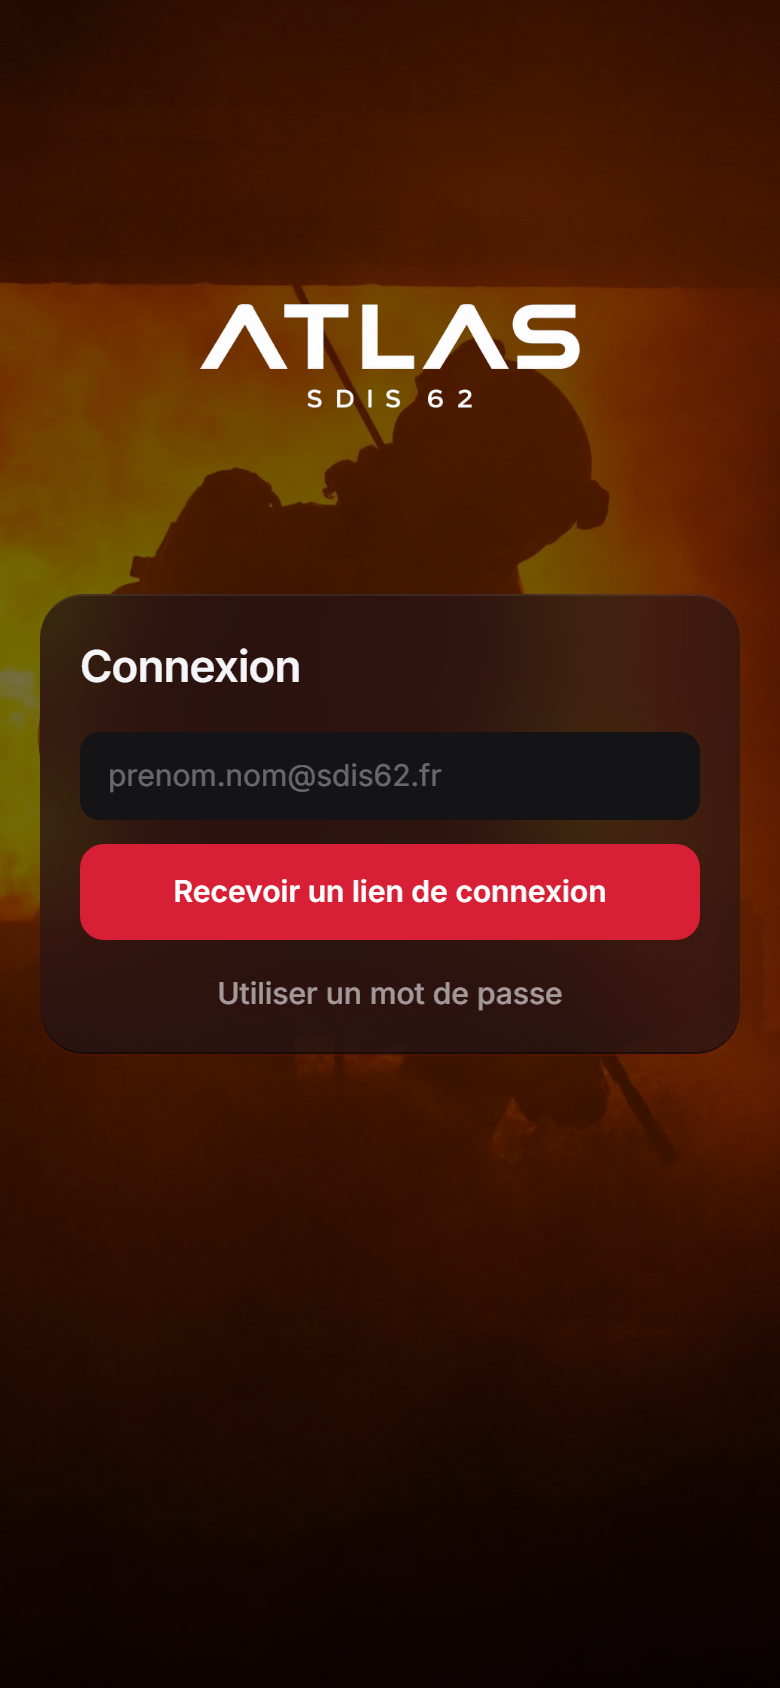
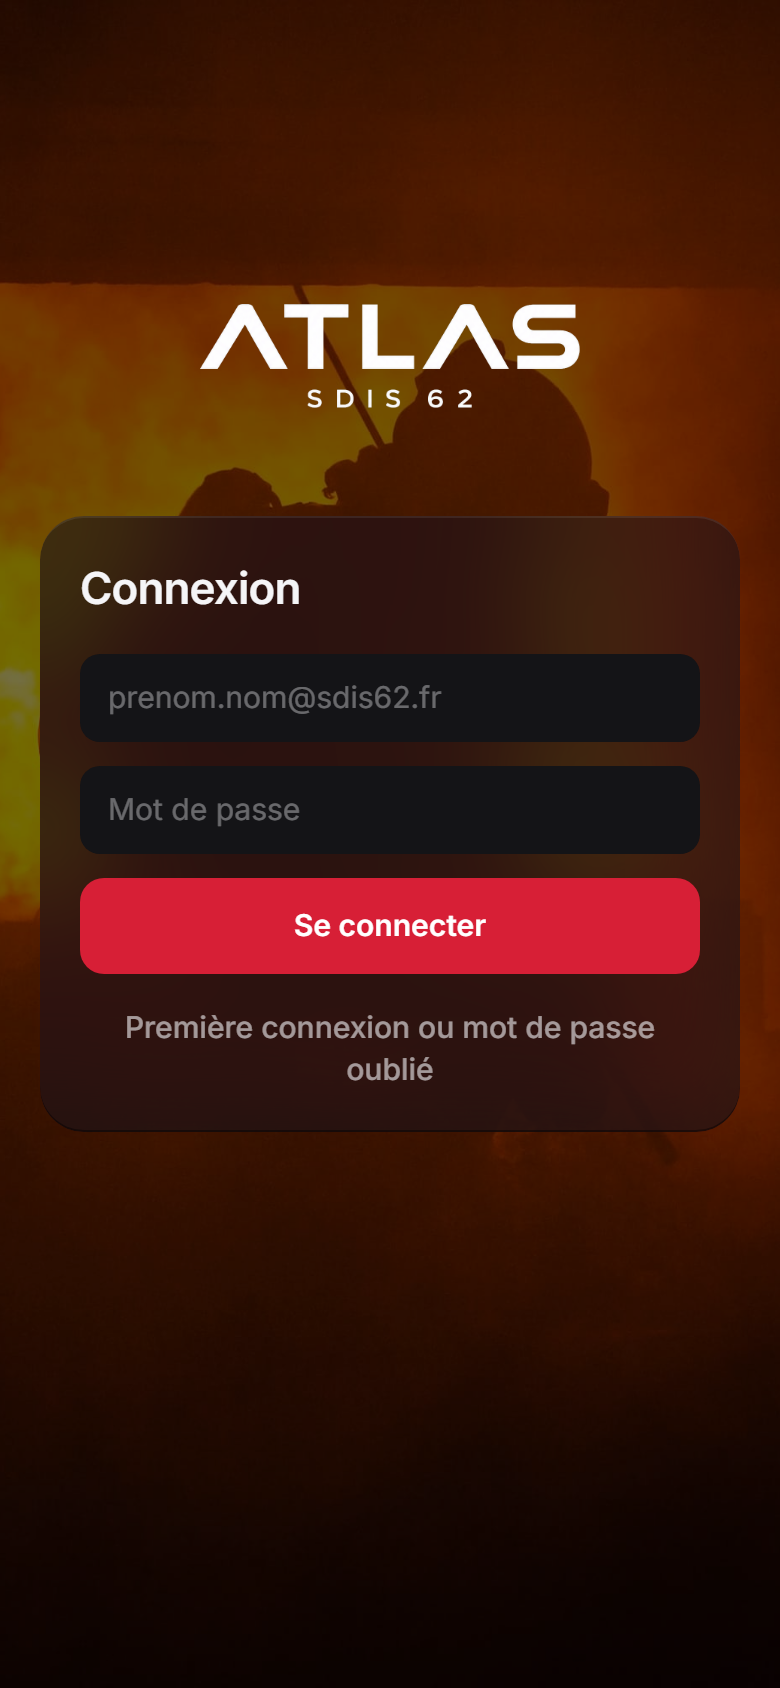
feat: connexion par mot de passe par défaut, première connexion par lien e-mail puis page de bienvenue (profil et mot de passe)

Changed region(s): [[0.0308, 0.3081, 0.9538, 0.6777], [0.6154, 0.6469, 0.7077, 0.6777]]

diff --git a/app/(auth)/login/LoginForm.tsx b/app/(auth)/login/LoginForm.tsx
@@ -6,23 +6,26 @@ import { Button } from "@/components/ui/Button";
 import { cn } from "@/lib/cn";
 
 const initial: LoginState = { status: "idle" };
-type Mode = "magic" | "password";
+type Mode = "password" | "link";
 
-const input =
-  "h-11 w-full rounded-[10px] bg-bg-1 px-3.5 text-[15px] text-text-1 outline-none ring-1 ring-transparent focus:ring-glass-edge";
+const input = "h-11 w-full rounded-[10px] bg-bg-1 px-3.5 text-[15px] text-text-1 outline-none ring-1 ring-transparent focus:ring-glass-edge";
 
-/** Formulaire de connexion : lien par e-mail (défaut) ou mot de passe. Un seul bouton rouge. */
+/**
+ * Connexion par e-mail et mot de passe (défaut). « Première connexion » ou
+ * « mot de passe oublié » : l'agent saisit son adresse, reçoit un lien, puis
+ * définit son mot de passe sur /bienvenue. Un seul bouton rouge.
+ */
 export function LoginForm({ next, domains }: { next: string; domains: string[] }) {
-  const [mode, setMode] = useState<Mode>("magic");
-  const [magicState, magicAction, magicPending] = useActionState(sendMagicLink, initial);
+  const [mode, setMode] = useState<Mode>("password");
   const [pwdState, pwdAction, pwdPending] = useActionState(signInWithPassword, initial);
+  const [linkState, linkAction, linkPending] = useActionState(sendMagicLink, initial);
 
-  if (magicState.status === "sent") {
+  if (linkState.status === "sent") {
     return (
       <div className="space-y-2" role="status" aria-live="polite">
         <p className="text-[22px] font-semibold tracking-[-0.02em] text-text-1">Lien envoyé</p>
         <p className="text-[15px] text-text-2">
-          Ouvrez l&apos;e-mail reçu sur <span className="text-text-1">{magicState.email}</span> et touchez le lien. Il est valable une heure.
+          Ouvrez l&apos;e-mail reçu sur <span className="text-text-1">{linkState.email}</span> et touchez le lien : vous choisirez ensuite votre mot de passe. Le lien est valable une heure.
         </p>
         <p className="text-[13px] text-text-3">Rien reçu ? Vérifiez vos indésirables, puis réessayez dans quelques minutes.</p>
       </div>
@@ -30,35 +33,13 @@ export function LoginForm({ next, domains }: { next: string; domains: string[] }
   }
 
   const placeholder = domains[0] ? `prenom.nom@${domains[0]}` : "Adresse e-mail";
-  const error = mode === "magic" ? (magicState.status === "error" ? magicState.message : null) : pwdState.status === "error" ? pwdState.message : null;
+  const error = mode === "password" ? (pwdState.status === "error" ? pwdState.message : null) : linkState.status === "error" ? linkState.message : null;
 
   return (
     <div className="space-y-4">
-      <p className="text-[22px] font-semibold tracking-[-0.02em] text-text-1">Connexion</p>
+      <p className="text-[22px] font-semibold tracking-[-0.02em] text-text-1">{mode === "password" ? "Connexion" : "Première connexion"}</p>
 
-      {mode === "magic" ? (
-        <form action={magicAction} className="space-y-3" noValidate>
-          <input type="hidden" name="next" value={next} />
-          <input
-            name="email"
-            type="email"
-            autoComplete="email"
-            inputMode="email"
-            placeholder={placeholder}
-            aria-label="Adresse e-mail"
-            required
-            className={cn(input, error && "ring-red")}
-          />
-          {error && (
-            <p className="text-[13px] text-red-text" role="alert">
-              {error}
-            </p>
-          )}
-          <Button type="submit" className="w-full" loading={magicPending}>
-            Recevoir un lien de connexion
-          </Button>
-        </form>
-      ) : (
+      {mode === "password" ? (
         <form action={pwdAction} className="space-y-3" noValidate>
           <input type="hidden" name="next" value={next} />
           <input name="email" type="email" autoComplete="username" inputMode="email" placeholder={placeholder} aria-label="Adresse e-mail" required className={input} />
@@ -72,14 +53,29 @@ export function LoginForm({ next, domains }: { next: string; domains: string[] }
             Se connecter
           </Button>
         </form>
+      ) : (
+        <form action={linkAction} className="space-y-3" noValidate>
+          {/* Après le lien, l'agent définit son mot de passe */}
+          <input type="hidden" name="next" value="/bienvenue" />
+          <p className="text-[15px] text-text-2">Saisissez votre adresse : vous recevrez un lien pour créer votre mot de passe.</p>
+          <input name="email" type="email" autoComplete="email" inputMode="email" placeholder={placeholder} aria-label="Adresse e-mail" required className={cn(input, error && "ring-red")} />
+          {error && (
+            <p className="text-[13px] text-red-text" role="alert">
+              {error}
+            </p>
+          )}
+          <Button type="submit" className="w-full" loading={linkPending}>
+            Recevoir mon lien
+          </Button>
+        </form>
       )}
 
       <button
         type="button"
-        onClick={() => setMode((m) => (m === "magic" ? "password" : "magic"))}
+        onClick={() => setMode((m) => (m === "password" ? "link" : "password"))}
         className="block w-full text-center text-[15px] font-medium text-text-2 hover:text-text-1"
       >
-        {mode === "magic" ? "Utiliser un mot de passe" : "Recevoir un lien par e-mail"}
+        {mode === "password" ? "Première connexion ou mot de passe oublié" : "J'ai déjà un mot de passe"}
       </button>
     </div>
   );

diff --git a/app/bienvenue/actions.ts b/app/bienvenue/actions.ts
@@ -1,0 +1,44 @@
+"use server";
+
+import { redirect } from "next/navigation";
+import { z } from "zod";
+import { createClient } from "@/lib/supabase/server";
+import { setPasswordSchema } from "@/lib/validation/auth";
+
+export type OnboardingState = { status: "idle" } | { status: "error"; message: string; fields?: Record<string, string> };
+
+const name = z.string().trim().min(1, "Champ obligatoire.").max(60, "60 caractères maximum.");
+
+export async function completeOnboarding(_prev: OnboardingState, formData: FormData): Promise<OnboardingState> {
+  const parsedName = z.object({ first_name: name, last_name: name }).safeParse({
+    first_name: formData.get("first_name"),
+    last_name: formData.get("last_name"),
+  });
+  const parsedPwd = setPasswordSchema.safeParse({ password: formData.get("password"), confirm: formData.get("confirm") });
+
+  const fields: Record<string, string> = {};
+  for (const r of [parsedName, parsedPwd]) {
+    if (!r.success) for (const i of r.error.issues) {
+      const k = String(i.path[0] ?? "");
+      if (k && !fields[k]) fields[k] = i.message;
+    }
+  }
+  if (!parsedName.success || !parsedPwd.success) return { status: "error", message: "Vérifiez les champs.", fields };
+
+  const supabase = await createClient();
+  const {
+    data: { user },
+  } = await supabase.auth.getUser();
+  if (!user) redirect("/login");
+
+  const { error: profileError } = await supabase.from("profiles").update(parsedName.data).eq("id", user.id);
+  if (profileError) return { status: "error", message: "Enregistrement du profil impossible." };
+
+  const { error } = await supabase.auth.updateUser({ password: parsedPwd.data.password });
+  if (error) {
+    const weak = /weak|pwned|leaked|compromised/i.test(error.message);
+    return { status: "error", message: weak ? "Ce mot de passe est trop faible ou connu dans des fuites de données. Choisissez-en un autre." : "Enregistrement du mot de passe impossible. Reconnectez-vous puis réessayez." };
+  }
+
+  redirect("/");
+}

diff --git a/app/bienvenue/OnboardingForm.tsx b/app/bienvenue/OnboardingForm.tsx
@@ -1,0 +1,42 @@
+"use client";
+
+import { useActionState } from "react";
+import { completeOnboarding, type OnboardingState } from "./actions";
+import { Button } from "@/components/ui/Button";
+import { Field } from "@/components/ui/Field";
+import { LIMITS } from "@/lib/config";
+
+const initial: OnboardingState = { status: "idle" };
+
+export function OnboardingForm({ firstName, lastName }: { firstName: string; lastName: string }) {
+  const [state, action, pending] = useActionState(completeOnboarding, initial);
+  const fields = state.status === "error" ? state.fields ?? {} : {};
+
+  return (
+    <form action={action} className="space-y-4" noValidate>
+      <div className="grid gap-4 sm:grid-cols-2">
+        <Field label="Prénom" name="first_name" defaultValue={firstName} autoComplete="given-name" required error={fields.first_name} />
+        <Field label="Nom" name="last_name" defaultValue={lastName} autoComplete="family-name" required error={fields.last_name} />
+      </div>
+      <Field
+        label="Mot de passe"
+        name="password"
+        type="password"
+        autoComplete="new-password"
+        minLength={LIMITS.passwordMinLength}
+        required
+        hint={`${LIMITS.passwordMinLength} caractères minimum.`}
+        error={fields.password}
+      />
+      <Field label="Confirmer le mot de passe" name="confirm" type="password" autoComplete="new-password" required error={fields.confirm} />
+      {state.status === "error" && !state.fields && (
+        <p className="text-[13px] text-red-text" role="alert">
+          {state.message}
+        </p>
+      )}
+      <Button type="submit" className="w-full" loading={pending}>
+        Commencer
+      </Button>
+    </form>
+  );
+}

diff --git a/app/bienvenue/page.tsx b/app/bienvenue/page.tsx
@@ -1,0 +1,39 @@
+import type { Metadata } from "next";
+import { redirect } from "next/navigation";
+import { Logo } from "@/components/brand/Logo";
+import { getCurrentUser } from "@/lib/supabase/server";
+import { OnboardingForm } from "./OnboardingForm";
+
+export const metadata: Metadata = { title: "Bienvenue" };
+export const dynamic = "force-dynamic";
+
+/**
+ * Première connexion (arrivée par le lien e-mail) : prénom, nom et mot de passe.
+ * Sert aussi pour « mot de passe oublié ».
+ */
+export default async function BienvenuePage() {
+  const current = await getCurrentUser();
+  if (!current) redirect("/auth/deconnexion?raison=profil");
+  const { profile } = current;
+
+  return (
+    <main className="flex min-h-dvh flex-col items-center justify-center bg-bg-0 px-5 py-10">
+      <div className="w-full max-w-[420px] space-y-6">
+        <div className="flex justify-center">
+          <Logo height={40} />
+        </div>
+        <section className="rounded-[22px] bg-bg-1 p-5 sm:p-6">
+          <p className="text-[22px] font-semibold tracking-[-0.02em] text-text-1">
+            {profile.first_name ? `Bonjour ${profile.first_name}` : "Bienvenue"}
+          </p>
+          <p className="mt-1 text-[15px] text-text-2">
+            {profile.first_name ? "Choisissez votre nouveau mot de passe." : "Complétez votre profil et choisissez un mot de passe pour vos prochaines connexions."}
+          </p>
+          <div className="mt-5">
+            <OnboardingForm firstName={profile.first_name} lastName={profile.last_name} />
+          </div>
+        </section>
+      </div>
+    </main>
+  );
+}

diff --git a/README.md b/README.md
@@ -156,12 +156,14 @@ set value = '["contact.vdubois@gmail.com"]'
 where key = 'allowed_emails';
 ```
 
-### 3.5 Connexion par mot de passe (optionnelle)
+### 3.5 Parcours de connexion
 
-Le lien magique est le mode par défaut. Un utilisateur peut aussi **définir un mot
-de passe** depuis sa page Profil (10 caractères minimum) ; l'onglet « Mot de passe »
-de la page de connexion devient alors utilisable. Aucun réglage Supabase
-supplémentaire n'est nécessaire (le provider Email couvre les deux). Pour renforcer
+- **Connexion** (défaut) : e-mail et mot de passe.
+- **Première connexion ou mot de passe oublié** : l'agent saisit son adresse, reçoit
+  un lien magique (Supabase Auth) et arrive sur `/bienvenue` où il renseigne prénom,
+  nom et mot de passe (10 caractères minimum). Le mot de passe se change ensuite
+  depuis la page Profil. Aucun réglage Supabase supplémentaire n'est nécessaire (le
+  provider Email couvre les deux modes). Pour renforcer
 la sécurité : **Authentication → Providers → Email → Password requirements** et
 activer la détection des mots de passe compromis (offre Pro).
 
